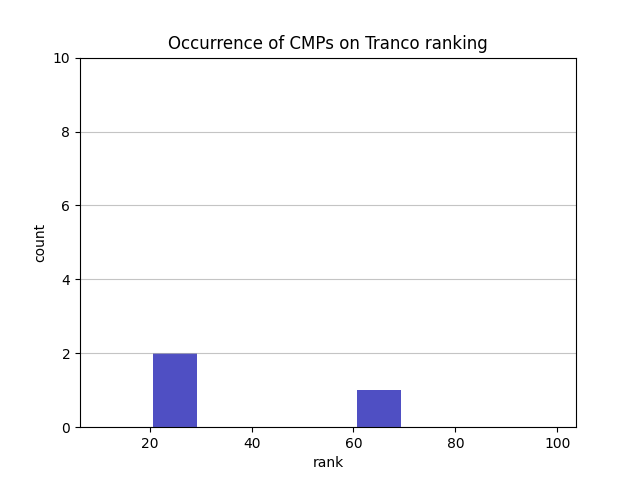
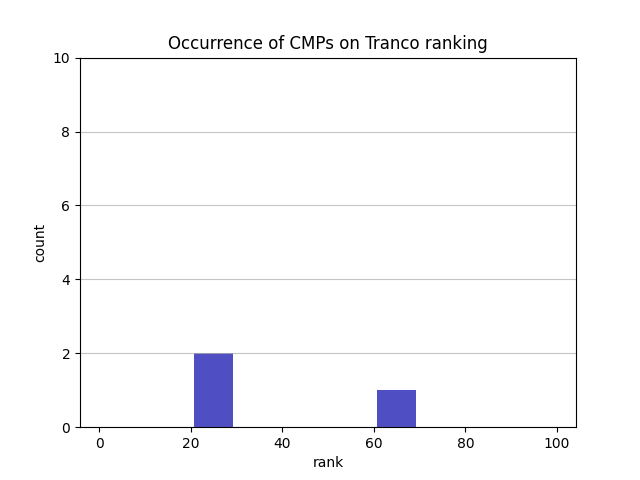
Add CMP histogram script stuff

diff --git a/histogram/CMP_histogram.py b/histogram/CMP_histogram.py
@@ -1,3 +1,5 @@
+# Copyright (C) 2021 Dino Bollinger, ETH Zürich, Information Security Group
+# Released under the MIT License
 """
 This is a script that takes the database of crawled websites (with the OpenWPM Consent Crawler),
 the ranking of Tranco domains, and then computes a histogram of how many websites contain a CMP
@@ -22,12 +24,12 @@ import matplotlib.pyplot as plt
 
 logger = logging.getLogger("main")
 cmp_types = [0, 1, 2]
-binrange_tiny = [*range(10, 110, 10)]
-binrange_small = [*range(100, 1100, 100)]
-binrange_medium = [*range(1000, 11000, 1000)]
-binrange_large = [*range(10000, 110000, 10000)]
-binrange_huge = [*range(10000, 1010000, 10000)]
-binrange_all = [*range(100000, 6100000, 100000)]
+binrange_tiny = [*range(0, 110, 10)]
+binrange_small = [*range(0, 1100, 100)]
+binrange_medium = [*range(0, 11000, 1000)]
+binrange_large = [*range(0, 110000, 10000)]
+binrange_huge = [*range(0, 1010000, 10000)]
+binrange_all = [*range(0, 6100000, 100000)]
 
 
 def cmp_query(i):
